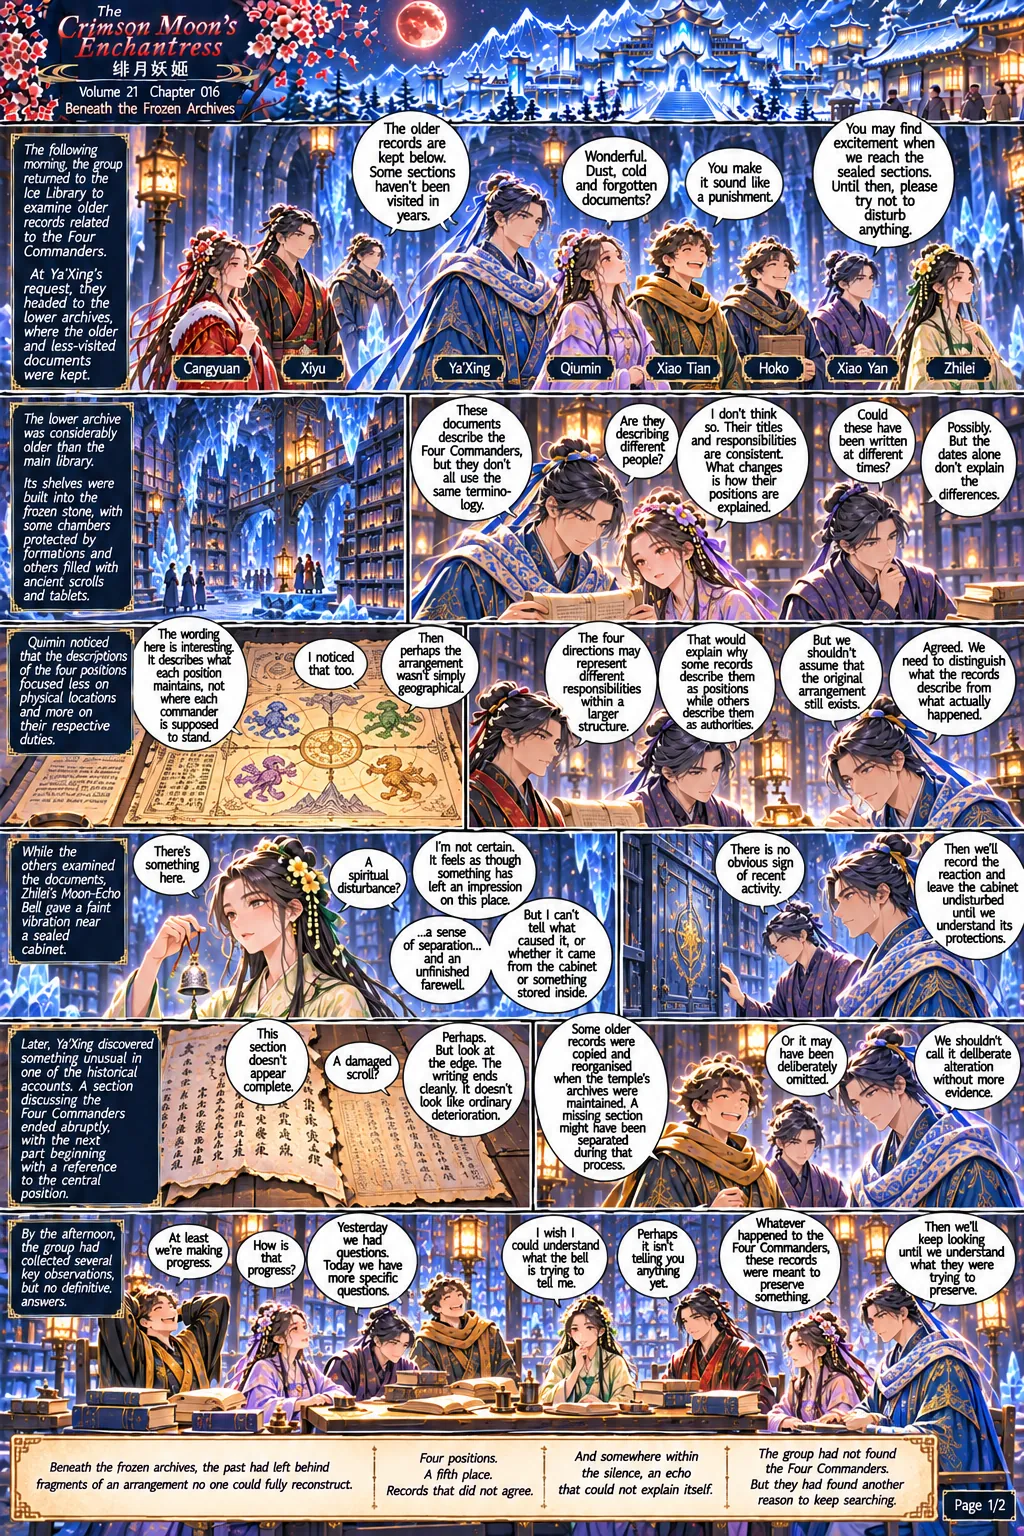
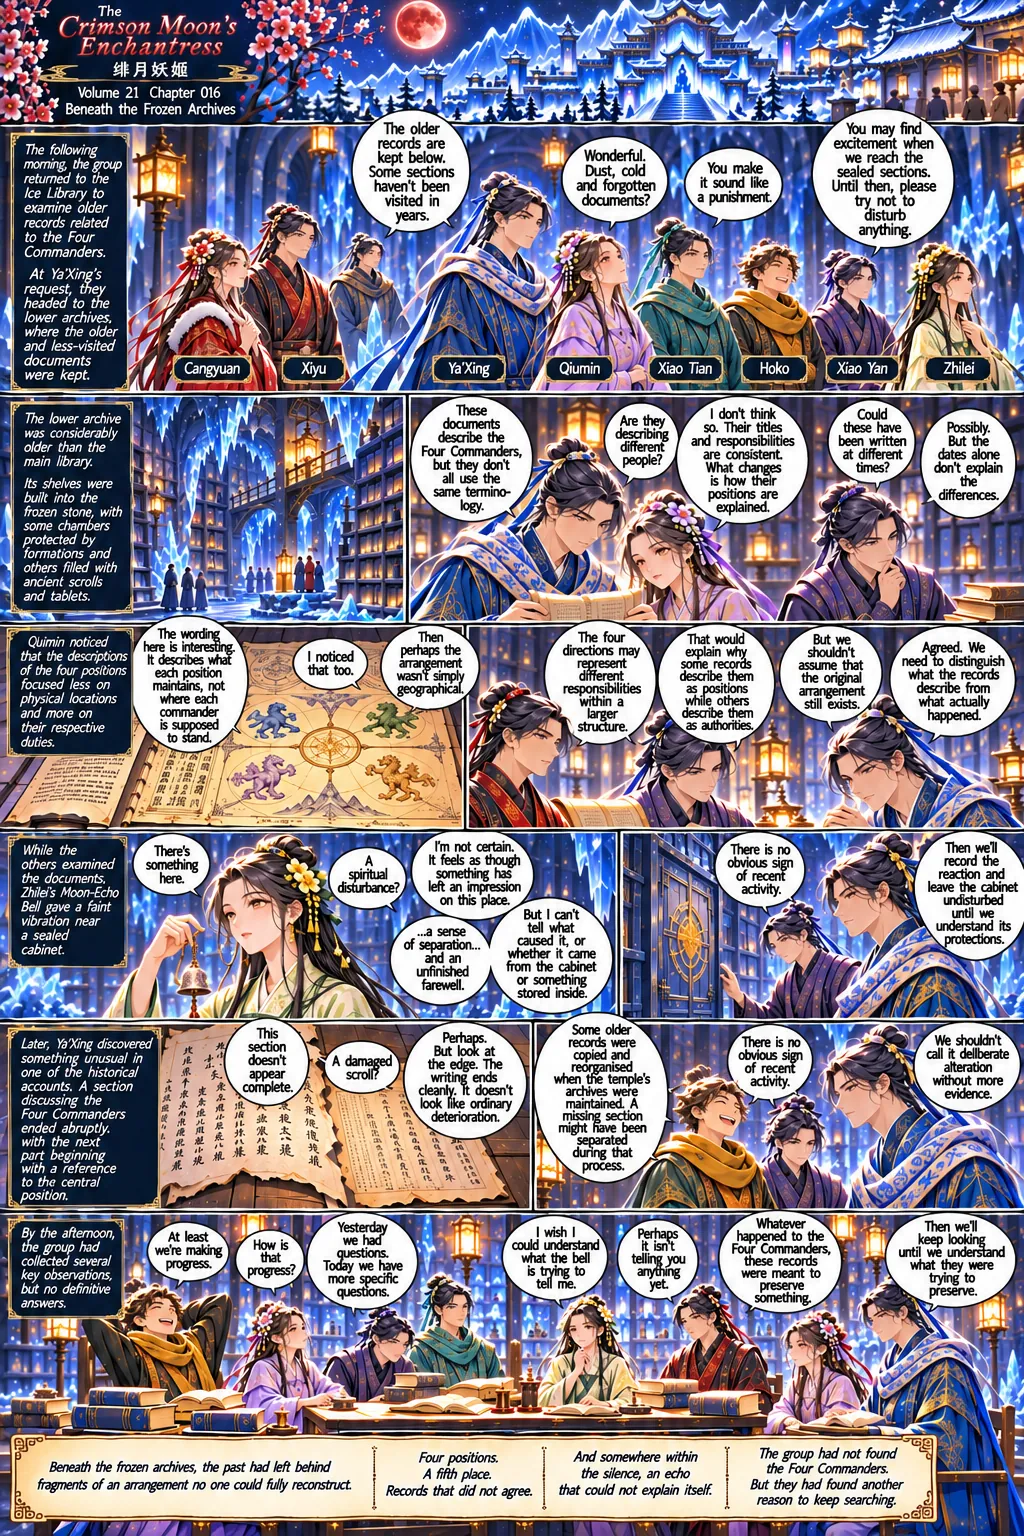
Volume 21 comic 016: install the regenerated single page
Claude-Session: https://claude.ai/code/session_01XEYzSJa6dBuS74MycM45Hs

diff --git a/scripts/chapters.js b/scripts/chapters.js
@@ -2563,7 +2563,7 @@ const CHAPTER_DESIGN = {
   events:['Ya\'Xing privately resolves to ask Qiumin to marry him one day, properly and not hurried.','Xiao Tian teases them about looking well rested; Hoko and Xiao Yan mind their own business.','A discrepancy about the central fifth position turns up in the Four Commanders\' records.'],
   chars:['xiyu','cangyuan','qiumin','yaxing','xiaotian','hoko','yanwatcher','zhilei'], intro:[], unlocks:['Story: Ya\'Xing\'s private resolve']},
  666:{title:'Beneath the Frozen Archives', book:'—', loc:'The lower archives of the Ice Library',
-  sum:'VOLUME 21, COMIC 016 (Page 1/2: page 2 not received yet). The group returns next morning to the Ice Library to examine older records about the Four Commanders; at Ya\'Xing\'s request they go down to the lower archives, older and less visited, with shelves built into the frozen stone, some chambers protected by formations and others filled with ancient scrolls and tablets. The documents describe the Four Commanders without the same terminology: the titles and responsibilities are consistent, what changes is how their positions are explained; Qiumin notices the descriptions focus less on physical locations than on what each position maintains; the four directions may represent responsibilities within a larger structure, and so records call them positions or authorities. Zhilei\'s Moon-Echo Bell vibrates faintly near a sealed cabinet: "a sense of separation... and an unfinished farewell"; they will record the reaction and leave the cabinet undisturbed until they understand its protections. Ya\'Xing finds a section about the Four Commanders that ends abruptly, the next part beginning with a reference to the central position; the writing ends cleanly, not like ordinary deterioration. Records may have been copied and reorganised when the temple\'s archives were maintained; or deliberately omitted (not to be called deliberate alteration without more evidence). Four positions. A fifth place. Records that did not agree.',
+  sum:'VOLUME 21, COMIC 016 (regenerated as a single page). The group returns next morning to the Ice Library to examine older records about the Four Commanders; at Ya\'Xing\'s request they go down to the lower archives, older and less visited, with shelves built into the frozen stone, some chambers protected by formations and others filled with ancient scrolls and tablets. The documents describe the Four Commanders without the same terminology: the titles and responsibilities are consistent, what changes is how their positions are explained; Qiumin notices the descriptions focus less on physical locations than on what each position maintains; the four directions may represent responsibilities within a larger structure, and so records call them positions or authorities. Zhilei\'s Moon-Echo Bell vibrates faintly near a sealed cabinet: "a sense of separation... and an unfinished farewell"; they will record the reaction and leave the cabinet undisturbed until they understand its protections. Ya\'Xing finds a section about the Four Commanders that ends abruptly, the next part beginning with a reference to the central position; the writing ends cleanly, not like ordinary deterioration. Records may have been copied and reorganised when the temple\'s archives were maintained; or deliberately omitted (not to be called deliberate alteration without more evidence). Four positions. A fifth place. Records that did not agree.',
   events:['The lower archives describe the Four Commanders\' positions as responsibilities within a larger structure.','Zhilei\'s bell vibrates near a sealed cabinet: separation and an unfinished farewell.','A scroll ends abruptly before a reference to the central position; the edge is cut cleanly.'],
   chars:['xiyu','cangyuan','qiumin','yaxing','xiaotian','hoko','yanwatcher','zhilei'], intro:[], unlocks:['Story: the sealed cabinet and the cut scroll']},
  667:{title:'Four Empty Seats', book:'—', loc:'A vast ruin hall deep in the Ice Temple',

diff --git a/sw.js b/sw.js
@@ -1,5 +1,5 @@
 /* Crimson Moon service worker: app shell cached for offline play; images/comics cached as you play. */
-const VERSION = 'crimson-moon-v148';
+const VERSION = 'crimson-moon-v149';
 const SHELL = ['./', './index.html', './styles.css', './manifest.webmanifest',
   './scripts/characters.js','./scripts/chapters.js','./scripts/script.js','./scripts/script_v2.js','./scripts/hooks.js','./scripts/bounties.js','./scripts/relations.js','./scripts/board.js','./scripts/rest.js','./scripts/banter.js','./scripts/base.js','./scripts/network.js','./scripts/fleet.js','./scripts/couple.js','./scripts/travel.js','./scripts/icetemple.js','./scripts/shrines.js','./scripts/export.js','./scripts/herbal.js','./scripts/personal.js','./scripts/equip.js','./scripts/ledger.js','./scripts/seal.js','./scripts/people.js','./scripts/core.js','./scripts/enemies.js','./scripts/battle.js','./scripts/confrontation.js','./scripts/journal.js','./scripts/temple.js','./assets/maps/ice_temple.webp','./assets/maps/ice_temple_v4.webp','./assets/maps/ice_temple_lower_v4.webp','./assets/volume4_cover.webp','./assets/volume5_cover.webp','./assets/volume6_cover.webp','./assets/volume7_cover.webp','./assets/volume8_cover.webp','./assets/volume9_cover.webp','./assets/volume10_cover.webp','./assets/volume11_cover.webp','./assets/volume12_cover.webp','./assets/volume13_cover.webp','./assets/volume14_cover.webp','./assets/volume15_cover.webp','./assets/volume16_cover.webp','./assets/volume17_cover.webp','./assets/volume18_cover.webp','./assets/volume19_cover.webp','./assets/volume21_cover.webp','./assets/volume20_cover.webp',
   './scripts/savedata.js','./scripts/storypopup.js','./scripts/ui.js','./assets/splash.webp','./assets/volume1_cover.webp','./assets/icons/icon-192.png','./assets/icons/icon-512.png','./assets/icons/icon-maskable-192.png','./assets/icons/icon-maskable-512.png'];

diff --git a/docs/VOLUME2.md b/docs/VOLUME2.md
@@ -790,3 +790,4 @@ Installed the sheet, cast-card portraits for Zhan Donglin and Zhan Qiumin (cropp
 - **Dark Shrines built** (docs/FOUR_COMMANDERS_PLAN.md): ten shrines, soul fragments (16-20, random per save), two-stage guardian battles with five new guardian enemies, resonance and identification in the Ice Library, partial and complete presences, limited battle blessing and a daily word of counsel. A first lead arrives at chapter 675. Headless test passed (random deal, every shrine holds a fragment, a real shrine battle starts, study/stabilise/counsel/aid, kitchen, stalls, stock by chapter, gear storage).
 - **For the author:** (1) The medallion in 022 (Commander-related?) is only recorded as an object; it is not an item or a fragment. (2) Yun Long leads them home in 025 and appears in the chapter; he is not made an active member (the Ice Temple party sheet lists him as temporary). (3) Next page: Volume 21 comic 016 page 2, then Volume 22 comic 001 (chapter 676).
 - Dark Shrines now follow the author's proposed world-map distribution (regions, tiers, unlock by shrines searched, fragments independent of location, Nameless Shrine hidden until 8 are searched). See docs/FOUR_COMMANDERS_PLAN.md.
+- **Volume 21 comic 016** regenerated as one page and installed (chapter 666); it replaces the Page 1/2 version, so no second page is needed. Comic 016's text is unchanged.
